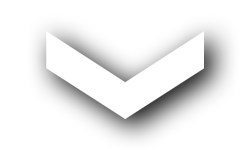
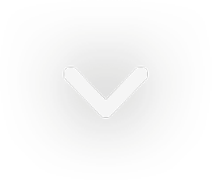
format arrow center

diff --git a/assets/main.css b/assets/main.css
@@ -148,25 +148,13 @@ h3 {
   background-attachment: fixed;
   background-position: 25% 25%;
   background-size: cover;
-<<<<<<< HEAD
+
   display: flex;
     flex-direction: column;
     justify-content: center;
+    -moz-background-size: cover;
 }
 
-h1 {
-  text-align: center;
-  font-size: 64px;
-  color: white;
-  padding-top: 125px;
-}
-.content {
-  padding-left: 300px;
-  padding-right: 300px;
-=======
-  -moz-background-size: cover;
->>>>>>> 4bf0a5fbfb898f1a89b68ebe5b2a54b8b3b8ec83
-}
 
 
 /* MAIN TITLE */
@@ -177,6 +165,7 @@ h1 {
 			display: inline-block;
 
 			padding: 3em;
+      padding-bottom: 1em;
 			text-align: center;
       /*position: absolute;
       top: 125px;
@@ -220,19 +209,25 @@ h1 {
 
 .down_arrow {
   background-image: url("./arrow.png");
-  background-size: 45px 36px;
+  background-size: 50px 45px;
   background-repeat: no-repeat;
-  transform: translateY(900%);
-  height: 60px;
+
+  height: 45px;
   margin: 0 auto;
-  width: 40px;
+  width: 50px;
+}
+
+.learn_more {
+  margin: 5px auto;
+  margin-top: 0px;
+  color: white;
 }
 
 /* CONTENT */
 .content {
   /*height: 2000px;*/
   padding-bottom: 300px;
-  font-family: "Open Sans", Helvetica, sans-serif;
+
   text-align: center;
   padding-left: 300px;
   padding-right: 300px;

diff --git a/index.html b/index.html
@@ -63,9 +63,11 @@
             </header>
 
           </div>
+          <p class='learn_more'>LEARN MORE</p>
           <div class="down_arrow">
 
           </div>
+
 
       </div>
     </div>
@@ -79,7 +81,7 @@
         Our signature event is the annual Marin Century and Mt. Tam Double Century, which together offer 3,000 cyclists an epic day in the saddle, a highly rated after party, and the opportunity to support some deserving local organizations.<br>
         Our members have a wide range of abilities and ambitions and are invited to share their expertise as well as leadership skills.
 
-  
+
       </p>
     </div>
 
